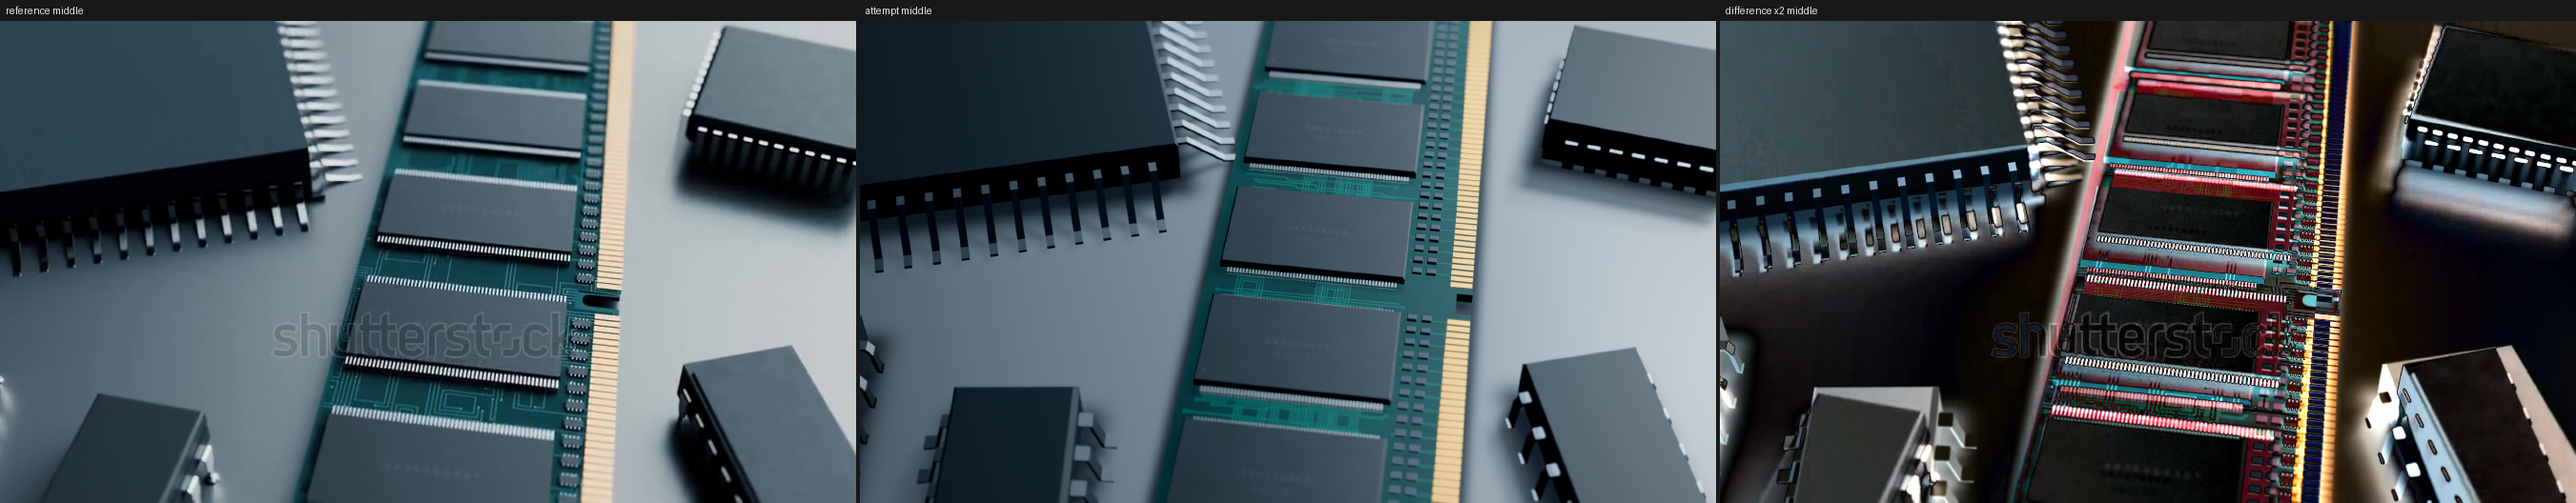
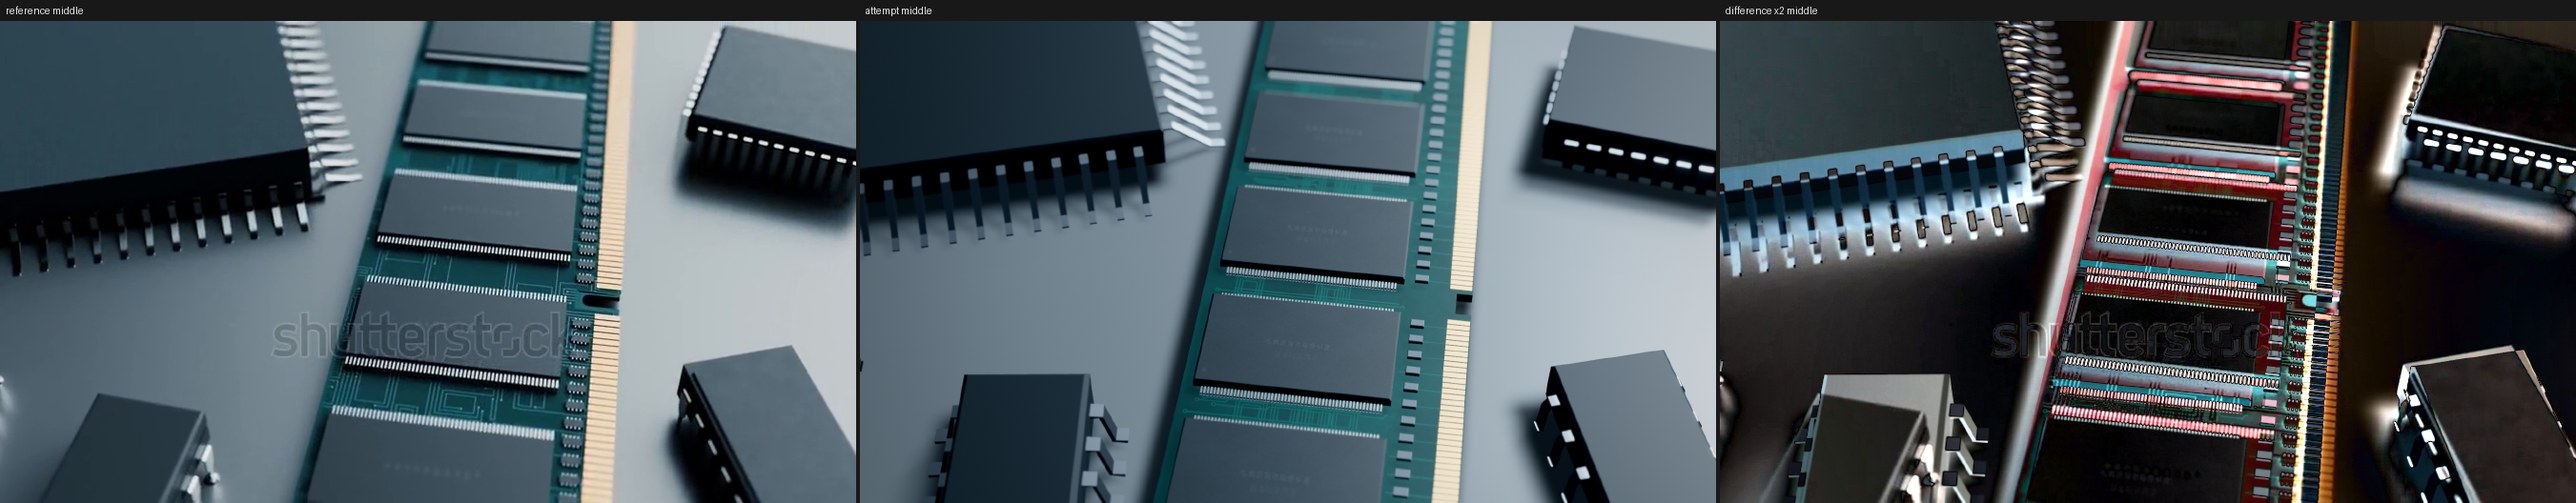
Chips: final fixes from the third visual review
Brighter leads and pin rows, one column of grey side parts, paler finer
gold fingers, contact shadows shifted to the shadow side, nearer focus.

Claude-Session: https://claude.ai/code/session_016jjL29YXQo89hH8jtpHEX7

Changed region(s): [[0.3109, 0.0303, 1.0, 1.0]]

diff --git a/memory-chips/src/config.ts b/memory-chips/src/config.ts
@@ -15,18 +15,18 @@ export const VIDEO = {
 export type Variant = "v1" | "v2";
 
 export const PALETTE = {
-  table: "#969ea2",
+  table: "#8f9698",
   pcb: "#0b5350",
   pcbEdge: "#083b39",
-  trace: "#1f8076",
+  trace: "#1a6f67",
   pad: "#b4c0c2",
   chipBody: "#384347",
   chipMark: "#6f7f8a",
-  lead: "#8f989d",
-  pin: "#d5dbde",
+  lead: "#aab3b8",
+  pin: "#e8ecee",
   smdPad: "#5f7578",
-  gold: "#c49a68",
-  smd: "#5d6b72",
+  gold: "#c7ab86",
+  smd: "#7c8a90",
 } as const;
 
 /** The memory module. */
@@ -42,15 +42,15 @@ export const MODULE = {
   chipSize: [22.2, 13.4, 1.25],
   pinsPerSide: 54,
   pinPitch: 0.38,
-  fingerPitch: 1.0,
+  fingerPitch: 0.8,
   fingerLength: 2.6,
   /** keying slot in the finger edge, between chips 3 and 4 */
   keySlotY: 57.6,
   keySlotSize: [3.2, 1.9],
-  /** two columns of tiny parts beside the fingers */
-  smdX: [9.0, 10.7] as [number, number],
-  smdPitch: 1.9,
-  smdSize: [1.15, 0.85, 0.45] as [number, number, number],
+  /** column of small parts beside the fingers */
+  smdX: [9.7] as number[],
+  smdPitch: 2.4,
+  smdSize: [1.6, 1.05, 0.5] as [number, number, number],
 } as const;
 
 export type PackageKind = "dip" | "soic" | "qfp" | "plcc";
@@ -64,10 +64,10 @@ export const PACKAGES: {
   size: [number, number, number];
   leadsPerSide: number;
 }[] = [
-  { kind: "dip", x: -57, y: 21, rotDeg: 8.5, size: [15, 42, 5], leadsPerSide: 8 },
-  { kind: "soic", x: -31, y: 25, rotDeg: 8, size: [13.5, 19, 6], leadsPerSide: 4 },
-  { kind: "dip", x: 33.4, y: 30, rotDeg: 18.5, size: [13, 36, 5.5], leadsPerSide: 7 },
-  { kind: "qfp", x: -54.7, y: 89.5, rotDeg: 19, size: [52, 49.5, 6], leadsPerSide: 14 },
+  { kind: "dip", x: -59.5, y: 21, rotDeg: 8.5, size: [15, 42, 5], leadsPerSide: 8 },
+  { kind: "soic", x: -30, y: 26, rotDeg: 8, size: [13.5, 19, 7], leadsPerSide: 4 },
+  { kind: "dip", x: 36.5, y: 30, rotDeg: 18.5, size: [13, 36, 5.5], leadsPerSide: 7 },
+  { kind: "qfp", x: -57, y: 92, rotDeg: 19, size: [52, 49.5, 6], leadsPerSide: 14 },
   { kind: "plcc", x: 37, y: 93.5, rotDeg: -9, size: [24, 21, 7], leadsPerSide: 7 },
 ];
 
@@ -101,11 +101,11 @@ export const CAMERAS: Record<Variant, CameraRig> = {
     fovDeg: 17.86,
     distance: [178, 187, 190],
     elevationDeg: [37, 46, 46],
-    yawDeg: [7, 7.6, 7.6],
+    yawDeg: [7, 7.6, 6.4],
     rollDeg: [0, 0, 0],
-    lookX: [-8, -6.7, -5.2],
+    lookX: [-8, -6.7, -6.6],
     lookY: [21.9, 63.1, 104.7],
-    focusBias: 1.0,
+    focusBias: 0.95,
   },
   v2: {
     fovDeg: 17.86,

diff --git a/memory-chips/src/scene/chipsWorld.ts b/memory-chips/src/scene/chipsWorld.ts
@@ -282,12 +282,13 @@ export const buildChipsWorld = (): World => {
     mesh.rotation.order = "YXZ";
     mesh.rotation.set(-Math.PI / 2, deg(rotDeg), 0);
     mesh.scale.set(w + margin * 2, d + margin * 2, 1);
-    mesh.position.copy(P(x, y, 0.03));
+    // the light comes from behind and the right: slide the patch towards the shadow side
+    mesh.position.copy(P(x - margin * 0.35, y - margin * 0.35, 0.03));
     mesh.renderOrder = 1;
     root.add(mesh);
   };
   addContact(0, MODULE.length / 2, MODULE.width, MODULE.length, 0, 3);
-  for (const pk of PACKAGES) addContact(pk.x, pk.y, pk.size[0], pk.size[1], pk.rotDeg, pk.kind === "plcc" ? 5 : 6);
+  for (const pk of PACKAGES) addContact(pk.x, pk.y, pk.size[0], pk.size[1], pk.rotDeg, pk.kind === "plcc" ? 4.5 : 5);
 
   // ---- circuit board: outline with end notches, keying slot and two holes ------------
   const W = MODULE.width;
@@ -347,7 +348,7 @@ export const buildChipsWorld = (): World => {
   chips.frustumCulled = false;
   root.add(chips);
 
-  const pinGeo = keep(new THREE.BoxGeometry(0.2, 0.3, 0.85));
+  const pinGeo = keep(new THREE.BoxGeometry(0.2, 0.3, 1.1));
   const pinMat = keep(new THREE.MeshStandardMaterial({ color: PALETTE.pin, roughness: 0.25, metalness: 1 }));
   const pins = new THREE.InstancedMesh(pinGeo, pinMat, MODULE.chips * MODULE.pinsPerSide * 2);
   const pinSpan = (MODULE.pinsPerSide - 1) * MODULE.pinPitch;
@@ -358,7 +359,7 @@ export const buildChipsWorld = (): World => {
         m.makeTranslation(
           MODULE.chipX - pinSpan / 2 + p * MODULE.pinPitch,
           top + 0.17,
-          -(chipCentreY(k) + side * (cd / 2 + 0.32)),
+          -(chipCentreY(k) + side * (cd / 2 + 0.42)),
         );
         pins.setMatrixAt(pi++, m);
       }
@@ -375,7 +376,7 @@ export const buildChipsWorld = (): World => {
     if (Math.abs(y - MODULE.keySlotY) < slotLen / 2 + 0.75) continue;
     fingerYs.push(y);
   }
-  const fingerGeo = keep(new THREE.BoxGeometry(MODULE.fingerLength, 0.07, MODULE.fingerPitch * 0.74));
+  const fingerGeo = keep(new THREE.BoxGeometry(MODULE.fingerLength, 0.07, MODULE.fingerPitch * 0.84));
   const fingers = new THREE.InstancedMesh(fingerGeo, gold, fingerYs.length);
   fingerYs.forEach((y, i) => {
     m.makeTranslation(hw - MODULE.fingerLength / 2 - 0.12, top + 0.035, -y);

diff --git a/memory-chips/src/scene/pcbTexture.ts b/memory-chips/src/scene/pcbTexture.ts
@@ -102,18 +102,19 @@ export const buildPcbTexture = (): THREE.CanvasTexture => {
   const pinSpan = (MODULE.pinsPerSide - 1) * MODULE.pinPitch;
   for (let k = 0; k < MODULE.chips; k++) {
     for (const side of [-1, 1]) {
-      const y = chipCentreY(k) + side * (cd / 2 + 0.45);
+      const y = chipCentreY(k) + side * (cd / 2 + 0.55);
       for (let p = 0; p < MODULE.pinsPerSide; p++) {
         const x = MODULE.chipX - pinSpan / 2 + p * MODULE.pinPitch;
-        c.fillRect(px(x - 0.11), py(y + 0.38), 0.22 * S, 0.76 * S);
+        c.fillRect(px(x - 0.11), py(y + 0.5), 0.22 * S, 1.0 * S);
       }
     }
   }
   // short traces from the two columns of tiny parts to the fingers and to the chips
   for (let y = 3.2; y < MODULE.length - 3.2; y += MODULE.smdPitch) {
     if (Math.abs(y - MODULE.keySlotY) < 3.0) continue;
-    trace([[MODULE.smdX[1] + 0.6, y], [MODULE.width / 2 - MODULE.fingerLength - 0.2, y]], 0.1);
-    if (rnd() < 0.5) trace([[chipR + 0.4, y], [MODULE.smdX[0] - 0.6, y]], 0.1);
+    const last = MODULE.smdX[MODULE.smdX.length - 1];
+    trace([[last + 0.8, y], [MODULE.width / 2 - MODULE.fingerLength - 0.2, y]], 0.1);
+    if (rnd() < 0.5) trace([[chipR + 0.4, y], [MODULE.smdX[0] - 0.8, y]], 0.1);
   }
   // ring around each mounting hole
   for (const hy of [3.4, MODULE.length - 3.4]) {
@@ -148,7 +149,7 @@ export const buildChipTexture = (): THREE.CanvasTexture => {
   c.globalCompositeOperation = "overlay";
   c.globalAlpha = 0.05;
   c.drawImage(noiseCanvas(256, 164, SEED + 5, 4, 3, 4, 0.55), 0, 0, W, H);
-  c.globalAlpha = 0.2;
+  c.globalAlpha = 0.11;
   c.drawImage(noiseCanvas(1024, 656, SEED + 6, 512, 328, 1), 0, 0, W, H);
   c.globalCompositeOperation = "source-over";
   // etched code: two rows of 5x7 dot-matrix glyphs with random dots (not real characters)

diff --git a/memory-chips/src/look.ts b/memory-chips/src/look.ts
@@ -11,7 +11,7 @@ export const LIGHT = {
   key: {
     color: "#e9f4ff",
     /** candela-like units; falls off with distance squared (scene is in millimetres) */
-    intensity: 2.95e6,
+    intensity: 2.8e6,
     /** position in module coordinates: [x across, y along, height] */
     position: [280, 440, 520] as [number, number, number],
     aimAt: [120, 90, 0] as [number, number, number],
@@ -22,17 +22,17 @@ export const LIGHT = {
     /** sideways drift of the aim point per millimetre along the strip (negative = far end aims further left) */
     aimSkew: -0.45,
     /** cone half-angle (radians): the soft cone edge is what darkens the left of the table */
-    coneAngle: 0.245,
+    coneAngle: 0.27,
     samples: 8,
     shadowMapSize: 2048,
   },
   /** darkness of the soft contact-shadow decals under the parts (0..1) */
-  contactShadow: 0.7,
+  contactShadow: 0.8,
   /** studio environment for reflections and a little fill */
   env: {
     intensity: 0.3,
     softbox: 7.5,
-    ambient: 0.22,
+    ambient: 0.4,
     /** where the softbox sits in reflections: [x across, y along, height] direction */
     softboxDir: [0.55, 0.8, 0.42] as [number, number, number],
   },
@@ -47,7 +47,7 @@ export const SURFACE = {
   /** the loose packages are a duller plastic than the memory chips */
   packageIor: 1.5,
   packageRoughness: 0.5,
-  leadRoughness: 0.4,
+  leadRoughness: 0.34,
   goldRoughness: 0.5,
 } as const;
 
